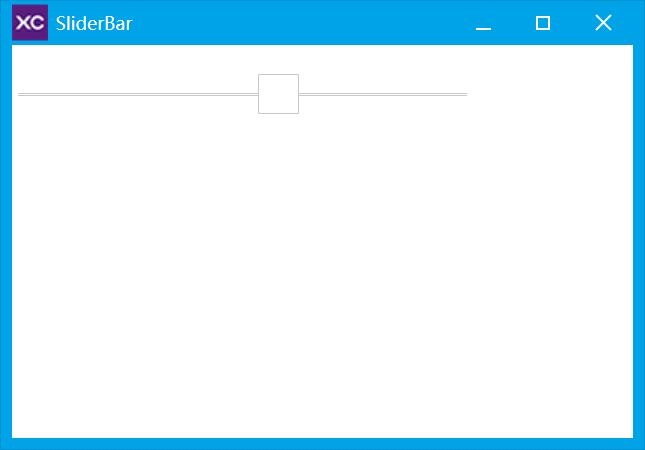
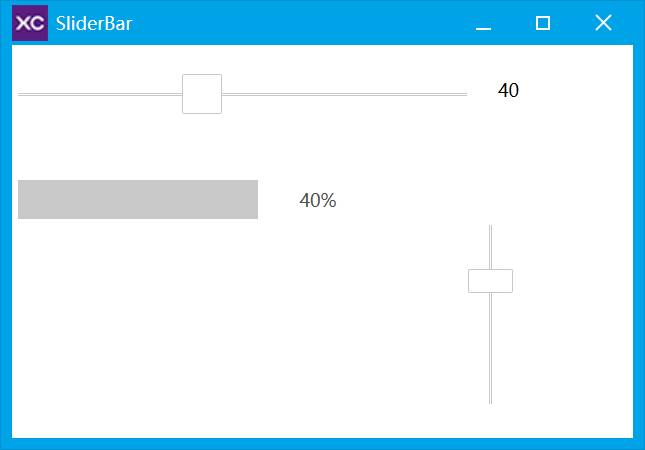
滑块条

diff --git a/Basic/SliderBar/SliderBar.go b/Basic/SliderBar/SliderBar.go
@@ -1,4 +1,4 @@
-// 滑块条.
+// 滑块条
 package main
 
 import (
@@ -23,7 +23,7 @@ func main() {
 	// 创建SliderBar
 	sb := widget.NewSliderBar(12, 33, 300, 60, w.Handle)
 	// 设置滑动范围
-	sb.SetRange(10)
+	sb.SetRange(100)
 
 	// 设置滑块按钮高度和宽度
 	sb.SetButtonHeight(27)
@@ -31,14 +31,42 @@ func main() {
 
 	// 启用背景透明
 	sb.EnableBkTransparent(true)
+	// 禁用绘制焦点
+	sb.EnableDrawFocus(false)
+
+	// 创建形状文本, 实时显示滑块当前值
+	stValue := widget.NewShapeText(330, 48, 90, 24, "40", w.Handle)
+
+	// 创建ProgressBar, 与滑块联动, 范围和滑块一致
+	pb := widget.NewProgressBar(12, 120, 400, 26, w.Handle)
+	pb.SetRange(100)        // 与滑块范围保持一致
+	pb.EnableShowText(true) // 在进度条上显示进度文本
 
 	// 注册滑块位置改变事件
 	sb.AddEvent_SliderBar_Change(func(hEle int, pos int32, pbHandled *bool) int {
-		fmt.Println("滑块位置改变:", pos)
+		// 把当前值显示到窗口上的形状文本里
+		stValue.SetText(fmt.Sprintf("%d", pos))
+		stValue.Redraw() // 修改显示后必须重绘
+		// 让进度条跟随滑块位置
+		pb.SetPos(pos)
+		pb.Redraw(false)
 		return 0
 	})
 
-	w.ShowWindow(xcc.SW_SHOW)
+	// 纵向滑块条
+	sb2 := widget.NewSliderBar(312, 150, 30, 120, w.Handle)
+	// 设置水平或垂直, true为水平, false为垂直
+	sb2.EnableHorizon(false)
+	sb2.SetRange(100)
+	sb2.SetButtonHeight(16)
+	sb2.EnableBkTransparent(true)
+	sb2.EnableDrawFocus(false)
+
+	// 设置初始位置
+	sb.SetPos(40)
+	pb.SetPos(40)
+
+	w.Show(true)
 	a.Run()
 	a.Exit()
 }
